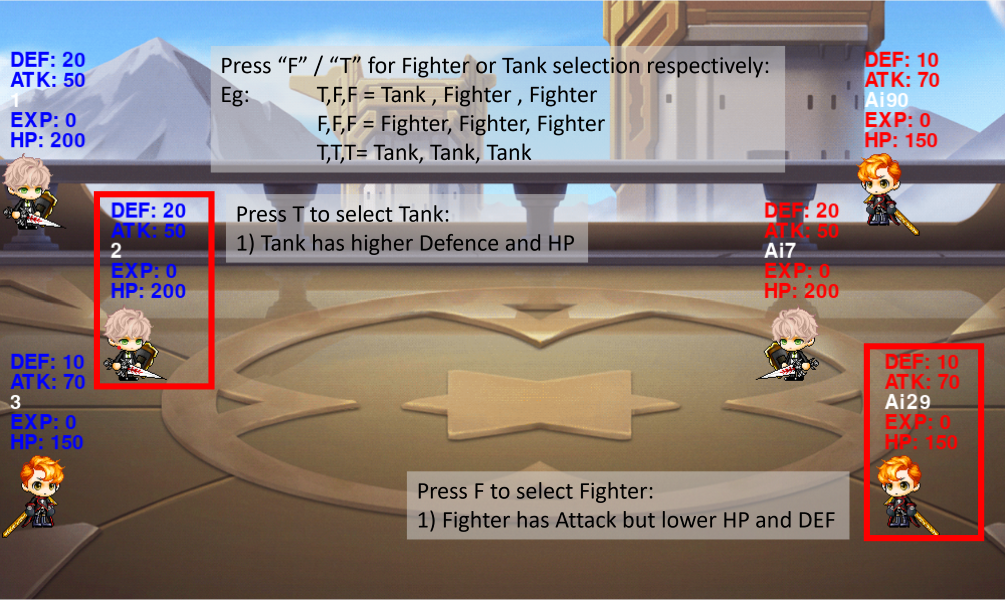
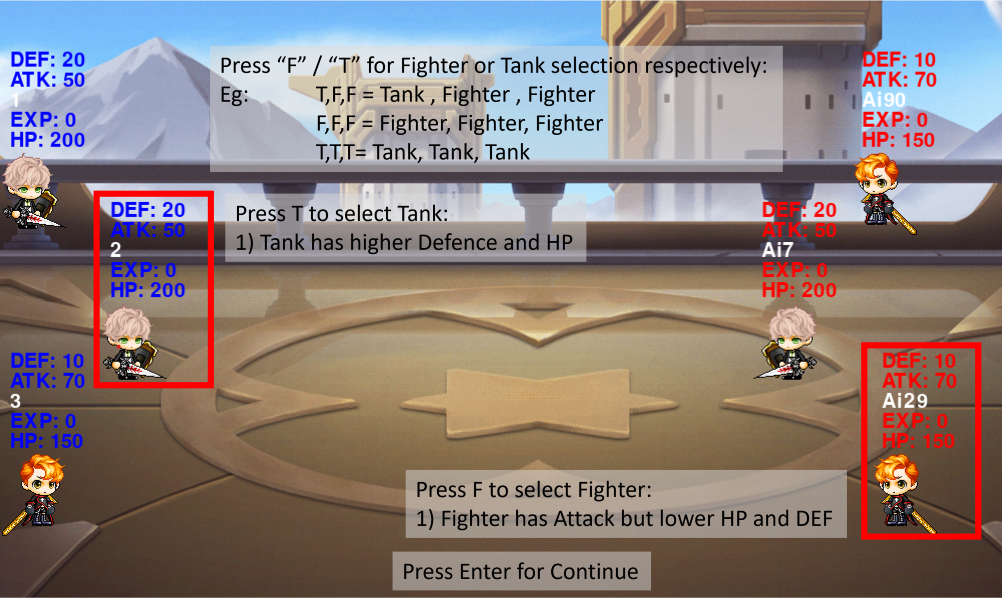
test
asd

diff --git a/pygamenew.py b/pygamenew.py
@@ -154,7 +154,7 @@ def refreshScreen():
     for char in playerList:
         if char.alive == True:
             screen.blit(char.image, (char.xCoord,char.yCoord))
-            show_text(str(char.name).title(), (0, 0, 255), char.xCoord + 10, char.yCoord - 95, 25)
+            show_text(str(char.name).title(), (255, 255, 255), char.xCoord + 10, char.yCoord - 95, 25)
             show_text(str("Rank: ") + str(char.rank), (0, 0, 255), char.xCoord + 10, char.yCoord - 80, 25)
             show_text(str("HP: ") + str(char.hpCurrent), (0, 0, 255), char.xCoord + 10, char.yCoord - 65, 25)
             show_text(str("EXP: ") + str(char.exp), (0, 0, 255), char.xCoord + 10, char.yCoord - 50, 25)
@@ -165,7 +165,7 @@ def refreshScreen():
     for char in AIlist:
         if char.alive == True:
             screen.blit(char.image, (char.xCoord,char.yCoord))
-            show_text(str(char.name).title(), (255, 0, 0), char.xCoord + 10, char.yCoord - 95,25)
+            show_text(str(char.name).title(), (255, 255, 255), char.xCoord + 10, char.yCoord - 95,25)
             show_text(str("Rank: ") + str(char.rank), (255, 0, 0), char.xCoord + 10, char.yCoord - 80, 25)
             show_text(str("HP: ") + str(char.hpCurrent), (255, 0, 0), char.xCoord + 10, char.yCoord - 65, 25)
             show_text(str("EXP: ") + str(char.exp), (255, 0, 0), char.xCoord + 10, char.yCoord - 50, 25)
@@ -365,7 +365,7 @@ refreshScreen()
 
             
 gamestate = 1
-# gamestate 0 = waiting, gamsestate 1 = players attack, gamestate 2 = ai attack
+# gamestate 0 = waiting, gamsestate 1 = players attack, gamestate 2 = ai attack gamestate 3 = moving
 
 
 clock = pygame.time.Clock()
